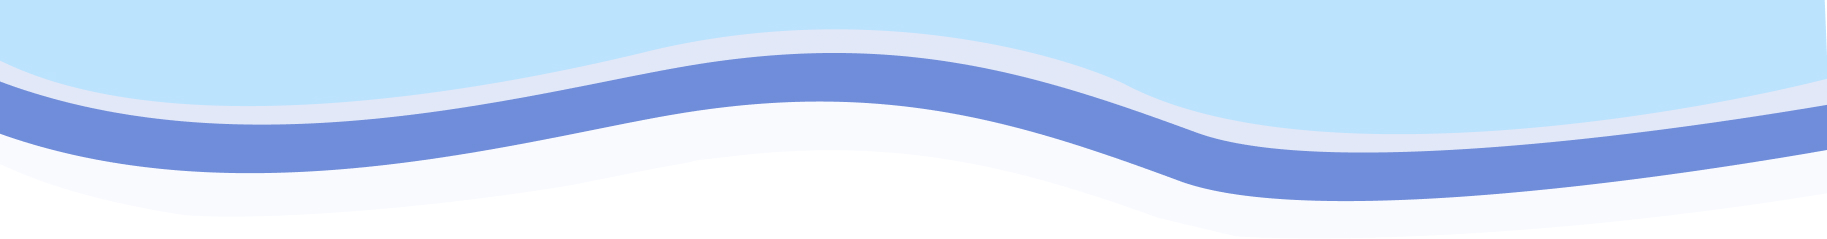
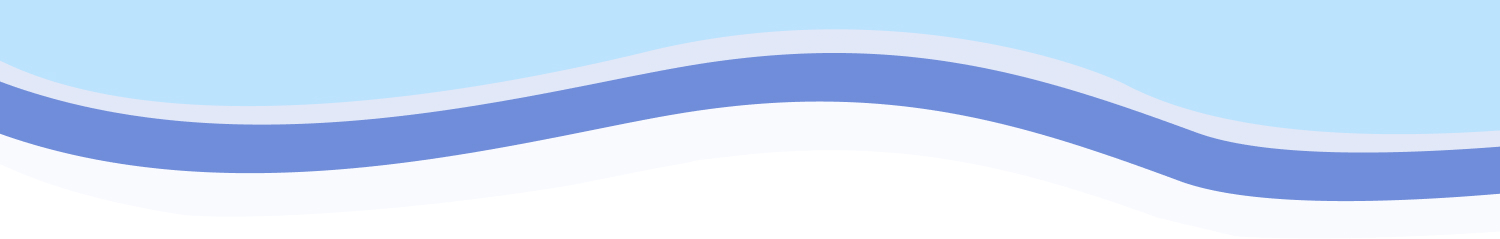
trdisss

diff --git a/styles/css/home.min.css b/styles/css/home.min.css
@@ -1,1 +1,1 @@
-@import url("https://fonts.googleapis.com/css2?family=Encode+Sans+Semi+Expanded:wght@100;200;300;400;500;600;700;800;900&family=Prata&family=Raleway:wght@100;200;300;400;500;600;700;800;900&display=swap");*,*::after,*::before{margin:0;padding:0;-webkit-box-sizing:border-box;box-sizing:border-box;text-decoration:none;list-style:none}a{color:white}html{font-family:'Raleway', sans-serif, 'Encode Sans Semi Expanded', sans-serif;scroll-behavior:smooth;height:2000px}body{overflow-x:hidden}.button{height:44px;border-radius:20px;display:-webkit-box;display:-ms-flexbox;display:flex;-webkit-box-pack:center;-ms-flex-pack:center;justify-content:center;-webkit-box-align:center;-ms-flex-align:center;align-items:center;cursor:pointer;text-decoration:none}.homevideo{position:relative;background:-webkit-gradient(linear, left top, left bottom, from(rgba(65,204,255,0.95)), to(rgba(65,175,255,0.342)));background:linear-gradient(180deg, rgba(65,204,255,0.95) 0%, rgba(65,175,255,0.342) 100%);z-index:50}.homevideo__maintitle{font:900 5.5rem "Raleway",sans-serif;color:#1A3256;padding-top:50px;padding-left:60px}.homevideo__description{max-width:80vw;font:300 1.8rem "Raleway",sans-serif;color:#fff;padding-left:60px;text-align:justify}.homevideo__description>br{display:none}.homevideo__description .play-button-video--responsive{border:none;width:260px;background-color:#08FFBA;font-weight:800;color:white;font-size:1.6rem;text-align:center;margin-top:14px}.homevideo__play-button{display:none}.homevideo__techlevel{opacity:0}.homevideo .bubbles{position:absolute;top:10%;-webkit-transform:scale(0.7);transform:scale(0.7);height:600px;left:-15px}.homevideo .mainwave{position:absolute;bottom:-75px}@media (min-width: 800px){video{display:none}@-webkit-keyframes rollvideo{0%{opacity:0}100%{opacity:1}}@keyframes rollvideo{0%{opacity:0}100%{opacity:1}}.homevideo{position:relative;background:-webkit-gradient(linear, left top, left bottom, from(rgba(65,204,255,0.95)), to(rgba(65,175,255,0.342)));background:linear-gradient(180deg, rgba(65,204,255,0.95) 0%, rgba(65,175,255,0.342) 100%);z-index:100}.homevideo__maintitle{font:900 7rem "Raleway",sans-serif;padding-top:90px;padding-left:80px}.homevideo__description{font:300 2rem "Raleway",sans-serif;padding-left:80px;padding-bottom:50px}.homevideo__description>br{display:block}.homevideo__play-button{display:block;position:absolute;color:#08FFBA;font-size:8.5rem;top:130px;left:46%;cursor:pointer}.homevideo__play-button:hover{-webkit-transition:0.2s;transition:0.2s;-webkit-transform:scale(1.09);transform:scale(1.09)}.homevideo .homevideo__techlevel{opacity:1;width:350px;height:70px;border-radius:30px;background-color:#3AB0E2;position:absolute;bottom:-70px;right:20px;display:-webkit-box;display:-ms-flexbox;display:flex;-webkit-box-align:center;-ms-flex-align:center;align-items:center;z-index:30}.homevideo .homevideo__techlevel>p{font:400 1.25rem "Raleway",sans-serif;color:white;width:250px;text-align:center}.homevideo .homevideo__techlevel>p>.techlevelspan{font-weight:700;color:#1A3256}.homevideo .homevideo__techlevel>.rightarrowcontainer{color:#08FFBA;font-size:40px;margin-left:50px;cursor:pointer}.homevideo .bubbles{-webkit-transform:none;transform:none;top:30%;z-index:30;height:unset;left:unset}.mainwave{position:absolute;z-index:-10;overflow:hidden}}@media (max-width: 1230px){.homevideo .play-button-video{display:none}}@media (min-width: 1230px){.homevideo .play-button-video--responsive{display:none}}.home-solutions{max-width:100vw;margin-top:40px;display:-webkit-box;display:-ms-flexbox;display:flex;-webkit-box-orient:vertical;-webkit-box-direction:normal;-ms-flex-direction:column;flex-direction:column;-webkit-box-pack:center;-ms-flex-pack:center;justify-content:center;-webkit-box-align:center;-ms-flex-align:center;align-items:center}.home-solutions .home-solutions__title{font:800 3rem "Raleway",sans-serif;color:#010913;text-align:center;max-width:90vw}.home-solutions p{margin-top:20px;font:300 1.5rem/35px "Raleway",sans-serif;text-align:center;max-width:90vw}.home-solutions>.card-solutions__container{height:100%;width:100%;-ms-flex-item-align:start;align-self:flex-start;padding:20px 20px;display:-webkit-box;display:-ms-flexbox;display:flex;gap:30px;overflow-x:auto;scrollbar-width:30vw}.home-solutions>.card-solutions__container::-webkit-scrollbar{width:0px;height:5px}.home-solutions>.card-solutions__container::-webkit-scrollbar-track{border-radius:10px}.home-solutions>.card-solutions__container::-webkit-scrollbar-thumb{background:gray;border-radius:10px}.home-solutions .card-solutions__card{margin-top:45px;margin-right:15px;position:relative;min-width:240px;width:240px;height:320px;background:#FEFFFF;opacity:0.75;-webkit-box-shadow:10px 10px 20px rgba(0,0,0,0.25);box-shadow:10px 10px 20px rgba(0,0,0,0.25);border-radius:25px;display:-webkit-box;display:-ms-flexbox;display:flex;-webkit-box-orient:vertical;-webkit-box-direction:normal;-ms-flex-direction:column;flex-direction:column;-webkit-box-align:center;-ms-flex-align:center;align-items:center;-webkit-box-pack:center;-ms-flex-pack:center;justify-content:center;cursor:pointer}.home-solutions .card-solutions__card>img{-webkit-transform:scale(0.85);transform:scale(0.85)}.home-solutions .card-solutions__card:hover{-webkit-transition:0.3s ease-in-out;transition:0.3s ease-in-out;-webkit-transform:scale(1.04);transform:scale(1.04)}.home-solutions .card-solutions__card>h3{position:absolute;-ms-flex-item-align:center;-ms-grid-row-align:center;align-self:center;bottom:20px;font:400 1.8rem/50px "Raleway",sans-serif;color:#07152c}@media (min-width: 800px){.home-solutions{margin-top:300px}.home-solutions .card-solutions__container{white-space:unset;overflow:unset;-ms-flex-item-align:center;align-self:center;padding-top:40px;width:65vw;display:-webkit-box;display:-ms-flexbox;display:flex;-ms-flex-wrap:wrap;flex-wrap:wrap;-webkit-box-pack:center;-ms-flex-pack:center;justify-content:center;gap:25px;-webkit-box-orient:horizontal;-webkit-box-direction:normal;-ms-flex-direction:row;flex-direction:row}}@media (min-width: 1200px){.home-solutions>.home-solutions__title{font:800 4rem "Raleway",sans-serif}.home-solutions>p{font:300 2rem/50px "Raleway",sans-serif}.home-solutions .card-solutions__container{width:90vw}.home-solutions .card-solutions__card{margin-top:0}}.how-it-works h2{font:700 3rem "Raleway",sans-serif;text-align:center;margin:40px 0 20px 0}.how-it-works>.how-it-works__container{padding-top:0}.how-it-works>.how-it-works__container>.how-it-works__item{position:relative;text-align:center;margin:0 auto}.how-it-works>.how-it-works__container>.how-it-works__item>h3{font:800 3.2rem "Raleway",sans-serif;color:#6E80EC;padding-top:100px}.how-it-works>.how-it-works__container>.how-it-works__item>p{font:400 1.7rem/40px "Raleway",sans-serif}.how-it-works>.how-it-works__container>.how-it-works__item .numbers{position:absolute;top:15px;left:15px;-webkit-transform:scale(0.7);transform:scale(0.7)}.how-it-works>.how-it-works__container .spiderwhite,.how-it-works>.how-it-works__container .readingwhite,.how-it-works>.how-it-works__container .chesswhite{display:block;-webkit-transform:scale(0.7);transform:scale(0.7);margin:0 auto;z-index:-10}.how-it-works>.how-it-works__container>.identify{background:linear-gradient(90.9deg, rgba(170,224,253,0.63) -3.59%, rgba(117,141,236,0.53) 99.23%)}.how-it-works>.how-it-works__container>.learn{background:-webkit-gradient(linear, right top, left top, color-stop(7.09%, #b4f0e0), to(rgba(223,243,240,0.09)));background:linear-gradient(270deg, #b4f0e0 7.09%, rgba(223,243,240,0.09) 100%)}.how-it-works>.how-it-works__container>.apply{background:linear-gradient(270.45deg, rgba(170,224,253,0.63) 10.17%, rgba(117,141,236,0.53) 90.03%)}@media (min-width: 1200px){.how-it-works{position:relative}.how-it-works .wavy{width:100vw;position:absolute;z-index:-10}.how-it-works h2{text-align:start;margin-left:100px;margin-top:100px;font:400 4rem "Raleway",sans-serif;color:#1A3256;z-index:50}.how-it-works h2>span{font-weight:700}.how-it-works>.how-it-works__container>.how-it-works__item{background:unset;opacity:1;height:200px;text-align:unset;margin:0px 0px 100px 120px}.how-it-works>.how-it-works__container>.how-it-works__item>h3{font:800 3.5rem "Raleway",sans-serif;padding:0}.how-it-works>.how-it-works__container>.how-it-works__item>p{margin-top:10px;font:400 2rem/40px "Raleway",sans-serif;color:#010913}.how-it-works>.how-it-works__container>.how-it-works__item>.numbers{position:absolute;top:-15px;left:-100px}.how-it-works>.how-it-works__container>.how-it-works__item>.number2{position:absolute;top:-15px;left:400px}.how-it-works>.how-it-works__container>.how-it-works__item.learn>h3{margin-left:240px}.how-it-works>.how-it-works__container>.how-it-works__item .spiderwhite,.how-it-works>.how-it-works__container>.how-it-works__item .readingwhite,.how-it-works>.how-it-works__container>.how-it-works__item .chesswhite{display:block;-webkit-transform:scale(0.7);transform:scale(0.7);margin:0 auto;z-index:-10}}
+@import url("https://fonts.googleapis.com/css2?family=Encode+Sans+Semi+Expanded:wght@100;200;300;400;500;600;700;800;900&family=Prata&family=Raleway:wght@100;200;300;400;500;600;700;800;900&display=swap");*,*::after,*::before{margin:0;padding:0;-webkit-box-sizing:border-box;box-sizing:border-box;text-decoration:none;list-style:none}a{color:white}html{font-family:'Raleway', sans-serif, 'Encode Sans Semi Expanded', sans-serif;scroll-behavior:smooth;height:2000px}body{overflow-x:hidden}.button{height:44px;border-radius:20px;display:-webkit-box;display:-ms-flexbox;display:flex;-webkit-box-pack:center;-ms-flex-pack:center;justify-content:center;-webkit-box-align:center;-ms-flex-align:center;align-items:center;cursor:pointer;text-decoration:none}.homevideo{position:relative;background:-webkit-gradient(linear, left top, left bottom, from(rgba(65,204,255,0.95)), to(rgba(65,175,255,0.342)));background:linear-gradient(180deg, rgba(65,204,255,0.95) 0%, rgba(65,175,255,0.342) 100%);z-index:50}.homevideo__maintitle{font:900 5.5rem "Raleway",sans-serif;color:#1A3256;padding-top:50px;padding-left:60px}.homevideo__description{max-width:80vw;font:300 1.8rem "Raleway",sans-serif;color:#fff;padding-left:60px;text-align:justify}.homevideo__description>br{display:none}.homevideo__description .play-button-video--responsive{border:none;width:260px;background-color:#08FFBA;font-weight:800;color:white;font-size:1.6rem;text-align:center;margin-top:14px}.homevideo__play-button{display:none}.homevideo__techlevel{opacity:0}.homevideo .bubbles{position:absolute;top:10%;-webkit-transform:scale(0.7);transform:scale(0.7);height:600px;left:-15px}.homevideo .mainwave{position:absolute;bottom:-75px;overflow:hidden}@media (min-width: 800px){video{display:none}@-webkit-keyframes rollvideo{0%{opacity:0}100%{opacity:1}}@keyframes rollvideo{0%{opacity:0}100%{opacity:1}}.homevideo{position:relative;background:-webkit-gradient(linear, left top, left bottom, from(rgba(65,204,255,0.95)), to(rgba(65,175,255,0.342)));background:linear-gradient(180deg, rgba(65,204,255,0.95) 0%, rgba(65,175,255,0.342) 100%);z-index:100}.homevideo__maintitle{font:900 7rem "Raleway",sans-serif;padding-top:90px;padding-left:80px}.homevideo__description{font:300 2rem "Raleway",sans-serif;padding-left:80px;padding-bottom:50px}.homevideo__description>br{display:block}.homevideo__play-button{display:block;position:absolute;color:#08FFBA;font-size:8.5rem;top:130px;left:46%;cursor:pointer}.homevideo__play-button:hover{-webkit-transition:0.2s;transition:0.2s;-webkit-transform:scale(1.09);transform:scale(1.09)}.homevideo .homevideo__techlevel{opacity:1;width:350px;height:70px;border-radius:30px;background-color:#3AB0E2;position:absolute;bottom:-70px;right:20px;display:-webkit-box;display:-ms-flexbox;display:flex;-webkit-box-align:center;-ms-flex-align:center;align-items:center;z-index:30}.homevideo .homevideo__techlevel>p{font:400 1.25rem "Raleway",sans-serif;color:white;width:250px;text-align:center}.homevideo .homevideo__techlevel>p>.techlevelspan{font-weight:700;color:#1A3256}.homevideo .homevideo__techlevel>.rightarrowcontainer{color:#08FFBA;font-size:40px;margin-left:50px;cursor:pointer}.homevideo .bubbles{-webkit-transform:none;transform:none;top:30%;z-index:30;height:unset;left:unset}.mainwave{position:absolute;z-index:-10;width:100vw;max-width:100vw}}@media (max-width: 1230px){.homevideo .play-button-video{display:none}}@media (min-width: 1230px){.homevideo .play-button-video--responsive{display:none}}.home-solutions{max-width:100vw;margin-top:40px;display:-webkit-box;display:-ms-flexbox;display:flex;-webkit-box-orient:vertical;-webkit-box-direction:normal;-ms-flex-direction:column;flex-direction:column;-webkit-box-pack:center;-ms-flex-pack:center;justify-content:center;-webkit-box-align:center;-ms-flex-align:center;align-items:center}.home-solutions .home-solutions__title{font:800 3rem "Raleway",sans-serif;color:#010913;text-align:center;max-width:90vw}.home-solutions p{margin-top:20px;font:300 1.5rem/35px "Raleway",sans-serif;text-align:center;max-width:90vw}.home-solutions>.card-solutions__container{height:100%;width:100%;-ms-flex-item-align:start;align-self:flex-start;padding:20px 20px;display:-webkit-box;display:-ms-flexbox;display:flex;gap:30px;overflow-x:auto;scrollbar-width:30vw}.home-solutions>.card-solutions__container::-webkit-scrollbar{width:0px;height:5px}.home-solutions>.card-solutions__container::-webkit-scrollbar-track{border-radius:10px}.home-solutions>.card-solutions__container::-webkit-scrollbar-thumb{background:gray;border-radius:10px}.home-solutions .card-solutions__card{margin-top:45px;margin-right:15px;position:relative;min-width:240px;width:240px;height:320px;background:#FEFFFF;opacity:0.75;-webkit-box-shadow:10px 10px 20px rgba(0,0,0,0.25);box-shadow:10px 10px 20px rgba(0,0,0,0.25);border-radius:25px;display:-webkit-box;display:-ms-flexbox;display:flex;-webkit-box-orient:vertical;-webkit-box-direction:normal;-ms-flex-direction:column;flex-direction:column;-webkit-box-align:center;-ms-flex-align:center;align-items:center;-webkit-box-pack:center;-ms-flex-pack:center;justify-content:center;cursor:pointer}.home-solutions .card-solutions__card>img{-webkit-transform:scale(0.85);transform:scale(0.85)}.home-solutions .card-solutions__card:hover{-webkit-transition:0.3s ease-in-out;transition:0.3s ease-in-out;-webkit-transform:scale(1.04);transform:scale(1.04)}.home-solutions .card-solutions__card>h3{position:absolute;-ms-flex-item-align:center;-ms-grid-row-align:center;align-self:center;bottom:20px;font:400 1.8rem/50px "Raleway",sans-serif;color:#07152c}@media (min-width: 800px){.home-solutions{margin-top:300px}.home-solutions .card-solutions__container{white-space:unset;overflow:unset;-ms-flex-item-align:center;align-self:center;padding-top:40px;width:65vw;display:-webkit-box;display:-ms-flexbox;display:flex;-ms-flex-wrap:wrap;flex-wrap:wrap;-webkit-box-pack:center;-ms-flex-pack:center;justify-content:center;gap:25px;-webkit-box-orient:horizontal;-webkit-box-direction:normal;-ms-flex-direction:row;flex-direction:row}}@media (min-width: 1200px){.home-solutions>.home-solutions__title{font:800 4rem "Raleway",sans-serif}.home-solutions>p{font:300 2rem/50px "Raleway",sans-serif}.home-solutions .card-solutions__container{width:90vw}.home-solutions .card-solutions__card{margin-top:0}}.how-it-works h2{font:700 3rem "Raleway",sans-serif;text-align:center;margin:40px 0 20px 0}.how-it-works>.how-it-works__container{padding-top:0}.how-it-works>.how-it-works__container>.how-it-works__item{position:relative;text-align:center;margin:0 auto}.how-it-works>.how-it-works__container>.how-it-works__item>h3{font:800 3.2rem "Raleway",sans-serif;color:#6E80EC;padding-top:100px}.how-it-works>.how-it-works__container>.how-it-works__item>p{font:400 1.7rem/40px "Raleway",sans-serif}.how-it-works>.how-it-works__container>.how-it-works__item .numbers{position:absolute;top:15px;left:15px;-webkit-transform:scale(0.7);transform:scale(0.7)}.how-it-works>.how-it-works__container .spiderwhite,.how-it-works>.how-it-works__container .readingwhite,.how-it-works>.how-it-works__container .chesswhite{display:block;-webkit-transform:scale(0.7);transform:scale(0.7);margin:0 auto;z-index:-10}.how-it-works>.how-it-works__container>.identify{background:linear-gradient(90.9deg, rgba(170,224,253,0.63) -3.59%, rgba(117,141,236,0.53) 99.23%)}.how-it-works>.how-it-works__container>.learn{background:-webkit-gradient(linear, right top, left top, color-stop(7.09%, #b4f0e0), to(rgba(223,243,240,0.09)));background:linear-gradient(270deg, #b4f0e0 7.09%, rgba(223,243,240,0.09) 100%)}.how-it-works>.how-it-works__container>.apply{background:linear-gradient(270.45deg, rgba(170,224,253,0.63) 10.17%, rgba(117,141,236,0.53) 90.03%)}@media (min-width: 1200px){.how-it-works{position:relative}.how-it-works .wavy{width:100vw;position:absolute;z-index:-10}.how-it-works h2{text-align:start;margin-left:100px;margin-top:100px;font:400 4rem "Raleway",sans-serif;color:#1A3256;z-index:50}.how-it-works h2>span{font-weight:700}.how-it-works>.how-it-works__container>.how-it-works__item{background:unset;opacity:1;height:200px;text-align:unset;margin:0px 0px 100px 120px}.how-it-works>.how-it-works__container>.how-it-works__item>h3{font:800 3.5rem "Raleway",sans-serif;padding:0}.how-it-works>.how-it-works__container>.how-it-works__item>p{margin-top:10px;font:400 2rem/40px "Raleway",sans-serif;color:#010913}.how-it-works>.how-it-works__container>.how-it-works__item>.numbers{position:absolute;top:-15px;left:-100px}.how-it-works>.how-it-works__container>.how-it-works__item>.number2{position:absolute;top:-15px;left:400px}.how-it-works>.how-it-works__container>.how-it-works__item.learn>h3{margin-left:240px}.how-it-works>.how-it-works__container>.how-it-works__item .spiderwhite,.how-it-works>.how-it-works__container>.how-it-works__item .readingwhite,.how-it-works>.how-it-works__container>.how-it-works__item .chesswhite{display:block;-webkit-transform:scale(0.7);transform:scale(0.7);margin:0 auto;z-index:-10}}

diff --git a/styles/css/home.css b/styles/css/home.css
@@ -99,6 +99,7 @@ body {
 .homevideo .mainwave {
   position: absolute;
   bottom: -75px;
+  overflow: hidden;
 }
 
 @media (min-width: 800px) {
@@ -200,7 +201,8 @@ body {
   .mainwave {
     position: absolute;
     z-index: -10;
-    overflow: hidden;
+    width: 100vw;
+    max-width: 100vw;
   }
 }
 

diff --git a/styles/scss/_homevideo.scss b/styles/scss/_homevideo.scss
@@ -57,6 +57,7 @@
     .mainwave {
         position: absolute;
         bottom: -75px;
+        overflow: hidden;
     }
 
 
@@ -169,7 +170,8 @@
     .mainwave {
         position: absolute;
         z-index: -10;
-        overflow: hidden;
+        width: 100vw;
+        max-width: 100vw;
     }
 }
 

diff --git a/js/home.js b/js/home.js
@@ -1,5 +1,5 @@
 // HOME VIDEO
-
+console.log(window.innerWidth);
 let playButton = document.getElementsByClassName("play-button-video")[0];
 let playButtonResponsive = document.getElementsByClassName(
 	"play-button-video--responsive"
